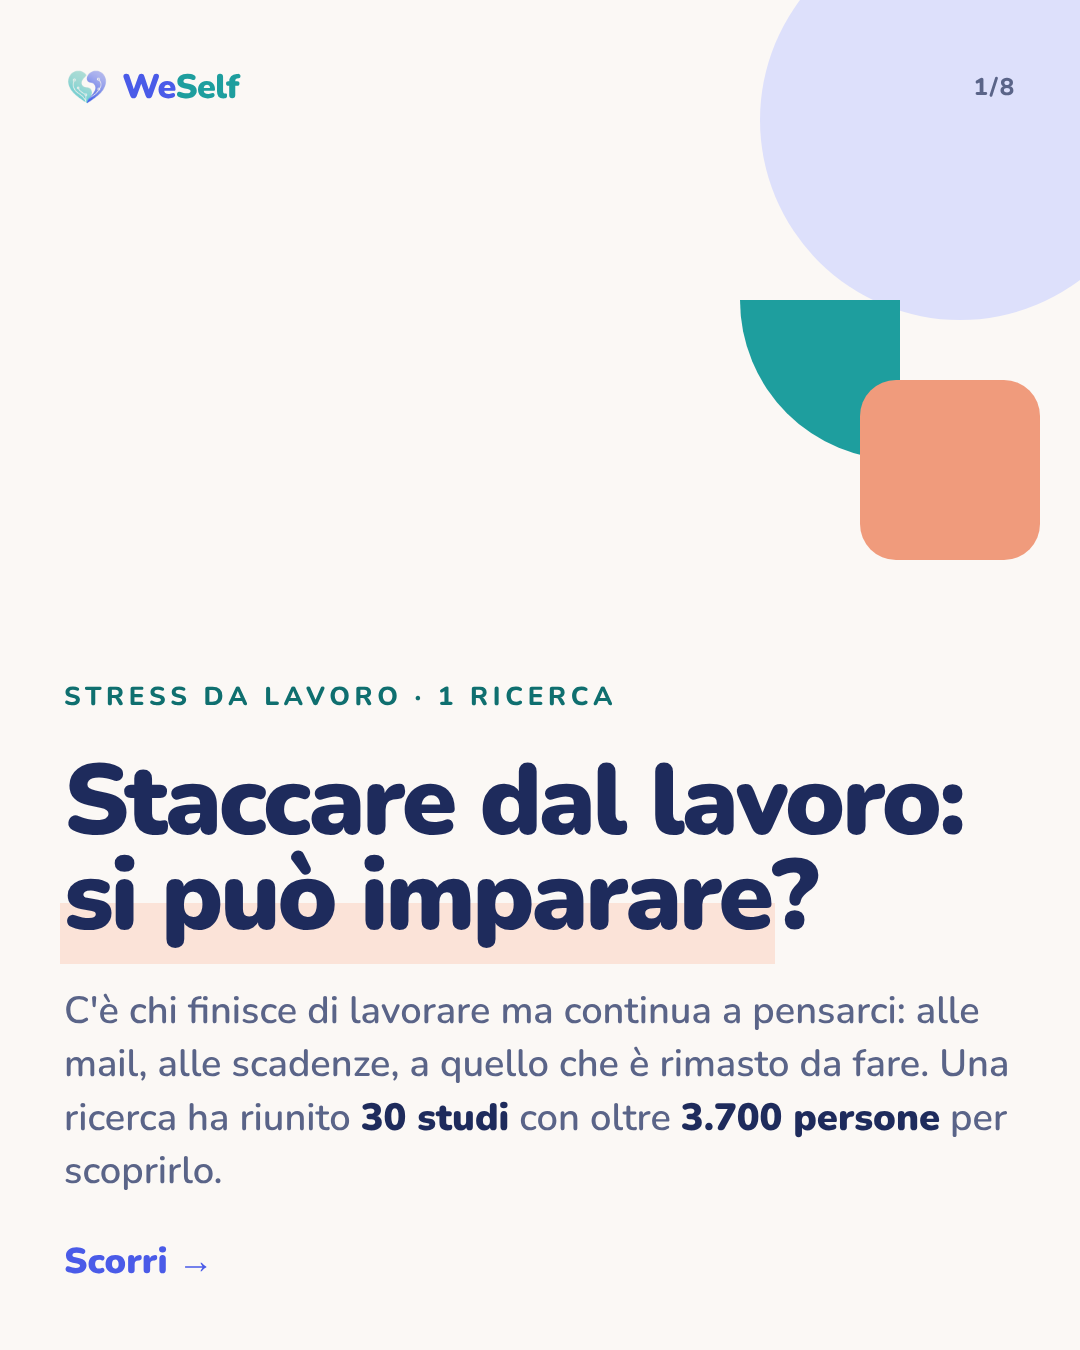
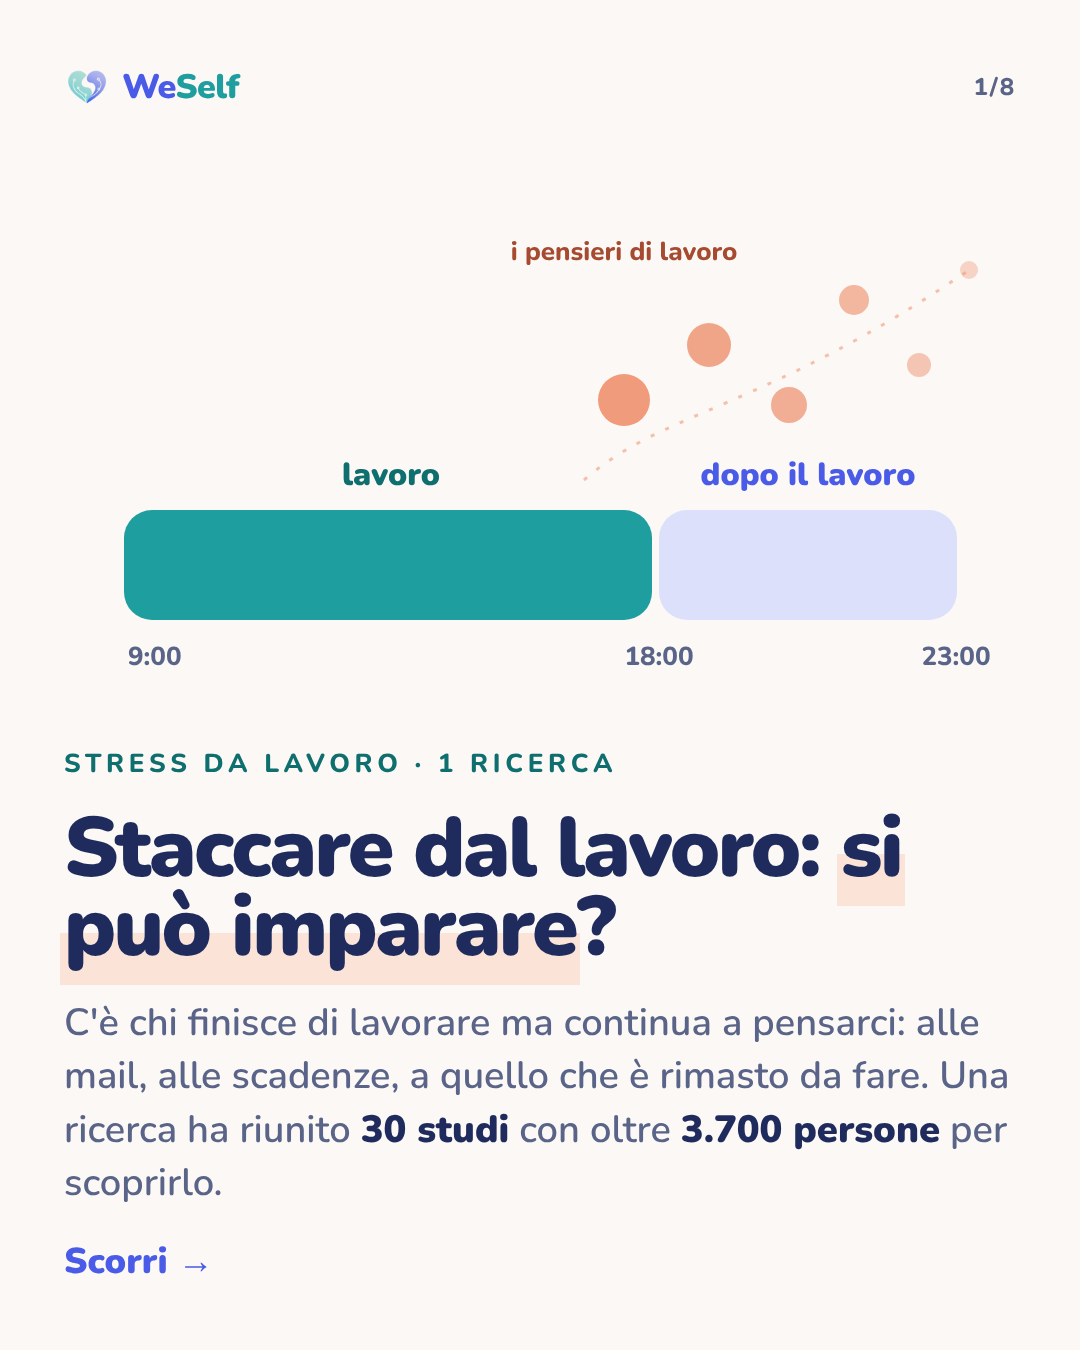
Carosello stress: nuova copertina (la giornata di lavoro), kit aggiornato dopo lo Stress Awareness Day
Claude-Session: https://claude.ai/code/session_01KYQeP73Zvn8PeP6zhkL2Sc

diff --git a/carosselli/stress/slides.html b/carosselli/stress/slides.html
@@ -92,18 +92,31 @@ svg.shape{position:absolute;z-index:1}
 .para div{border-radius:26px;padding:30px 32px;font-weight:700;font-size:34px;line-height:1.3}
 .para .a{background:var(--teal-soft)}.para .b{background:var(--coral-soft)}
 .para small{display:block;font-weight:800;font-size:22px;letter-spacing:.14em;text-transform:uppercase;margin-bottom:10px;color:var(--muted)}
+.day{display:block;margin-top:40px;align-self:flex-start}
 </style>
 
 <section class="slide" id="s1">
-  <svg class="shape" style="right:0;top:0" width="520" height="620" viewBox="0 0 520 620">
-    <circle class="s-tintwe" cx="400" cy="120" r="200"/>
-    <path class="s-self" d="M180 300 h160 v160 a160 160 0 0 1 -160 -160 z"/>
-    <rect class="s-warm" x="300" y="380" width="180" height="180" rx="36"/>
-  </svg>
   <div class="top"><div class="brand"><img src="weself-mark.png"><span><span class="we">We</span><span class="self">Self</span></span></div><div class="count">1/8</div></div>
-  <div style="margin-top:auto" class="stack">
+  <svg class="day" width="952" height="540" viewBox="0 0 952 540">
+    <rect x="60" y="360" width="528" height="110" rx="28" fill="var(--teal)"/>
+    <rect x="595" y="360" width="298" height="110" rx="28" fill="var(--peri-soft)"/>
+    <text x="327" y="335" text-anchor="middle" font-family="Nunito" font-weight="900" font-size="32" fill="var(--teal-text)">lavoro</text>
+    <text x="744" y="335" text-anchor="middle" font-family="Nunito" font-weight="900" font-size="32" fill="var(--peri)">dopo il lavoro</text>
+    <text x="64" y="515" text-anchor="start" font-family="Nunito" font-weight="800" font-size="26" fill="var(--muted)">9:00</text>
+    <text x="595" y="515" text-anchor="middle" font-family="Nunito" font-weight="800" font-size="26" fill="var(--muted)">18:00</text>
+    <text x="892" y="515" text-anchor="middle" font-family="Nunito" font-weight="800" font-size="26" fill="var(--muted)">23:00</text>
+    <path d="M520 330 C 600 260, 700 260, 905 120" fill="none" stroke="var(--coral)" stroke-width="3" stroke-dasharray="4 12" opacity=".6"/>
+    <circle cx="560" cy="250" r="26" fill="var(--coral)" opacity="1"/>
+    <circle cx="645" cy="195" r="22" fill="var(--coral)" opacity="0.9"/>
+    <circle cx="725" cy="255" r="18" fill="var(--coral)" opacity="0.8"/>
+    <circle cx="790" cy="150" r="15" fill="var(--coral)" opacity="0.7"/>
+    <circle cx="855" cy="215" r="12" fill="var(--coral)" opacity="0.55"/>
+    <circle cx="905" cy="120" r="9" fill="var(--coral)" opacity="0.4"/>
+    <text x="560" y="110" text-anchor="middle" font-family="Nunito" font-weight="800" font-size="26" fill="var(--coral-text)">i pensieri di lavoro</text>
+    </svg>
+  <div style="margin-top:auto;gap:28px" class="stack">
     <p class="kicker">Stress da lavoro · 1 ricerca</p>
-    <h1 style="font-size:100px">Staccare dal lavoro: <span class="hl">si può imparare</span>?</h1>
+    <h1 style="font-size:84px">Staccare dal lavoro: <span class="hl">si può imparare</span>?</h1>
     <p class="mid muted">C'è chi finisce di lavorare ma continua a pensarci: alle mail, alle scadenze, a quello che è rimasto da fare. Una ricerca ha riunito <b style="color:var(--ink)">30 studi</b> con oltre <b style="color:var(--ink)">3.700 persone</b> per scoprirlo.</p>
     <p style="font-weight:900;font-size:36px;color:var(--peri)">Scorri →</p>
   </div>

diff --git a/carosselli/stress/body.html b/carosselli/stress/body.html
@@ -17,18 +17,31 @@
 .para div{border-radius:26px;padding:30px 32px;font-weight:700;font-size:34px;line-height:1.3}
 .para .a{background:var(--teal-soft)}.para .b{background:var(--coral-soft)}
 .para small{display:block;font-weight:800;font-size:22px;letter-spacing:.14em;text-transform:uppercase;margin-bottom:10px;color:var(--muted)}
+.day{display:block;margin-top:40px;align-self:flex-start}
 </style>
 
 <section class="slide" id="s1">
-  <svg class="shape" style="right:0;top:0" width="520" height="620" viewBox="0 0 520 620">
-    <circle class="s-tintwe" cx="400" cy="120" r="200"/>
-    <path class="s-self" d="M180 300 h160 v160 a160 160 0 0 1 -160 -160 z"/>
-    <rect class="s-warm" x="300" y="380" width="180" height="180" rx="36"/>
-  </svg>
   <div class="top"><div class="brand"><img src="weself-mark.png"><span><span class="we">We</span><span class="self">Self</span></span></div><div class="count">1/8</div></div>
-  <div style="margin-top:auto" class="stack">
+  <svg class="day" width="952" height="540" viewBox="0 0 952 540">
+    <rect x="60" y="360" width="528" height="110" rx="28" fill="var(--teal)"/>
+    <rect x="595" y="360" width="298" height="110" rx="28" fill="var(--peri-soft)"/>
+    <text x="327" y="335" text-anchor="middle" font-family="Nunito" font-weight="900" font-size="32" fill="var(--teal-text)">lavoro</text>
+    <text x="744" y="335" text-anchor="middle" font-family="Nunito" font-weight="900" font-size="32" fill="var(--peri)">dopo il lavoro</text>
+    <text x="64" y="515" text-anchor="start" font-family="Nunito" font-weight="800" font-size="26" fill="var(--muted)">9:00</text>
+    <text x="595" y="515" text-anchor="middle" font-family="Nunito" font-weight="800" font-size="26" fill="var(--muted)">18:00</text>
+    <text x="892" y="515" text-anchor="middle" font-family="Nunito" font-weight="800" font-size="26" fill="var(--muted)">23:00</text>
+    <path d="M520 330 C 600 260, 700 260, 905 120" fill="none" stroke="var(--coral)" stroke-width="3" stroke-dasharray="4 12" opacity=".6"/>
+    <circle cx="560" cy="250" r="26" fill="var(--coral)" opacity="1"/>
+    <circle cx="645" cy="195" r="22" fill="var(--coral)" opacity="0.9"/>
+    <circle cx="725" cy="255" r="18" fill="var(--coral)" opacity="0.8"/>
+    <circle cx="790" cy="150" r="15" fill="var(--coral)" opacity="0.7"/>
+    <circle cx="855" cy="215" r="12" fill="var(--coral)" opacity="0.55"/>
+    <circle cx="905" cy="120" r="9" fill="var(--coral)" opacity="0.4"/>
+    <text x="560" y="110" text-anchor="middle" font-family="Nunito" font-weight="800" font-size="26" fill="var(--coral-text)">i pensieri di lavoro</text>
+    </svg>
+  <div style="margin-top:auto;gap:28px" class="stack">
     <p class="kicker">Stress da lavoro · 1 ricerca</p>
-    <h1 style="font-size:100px">Staccare dal lavoro: <span class="hl">si può imparare</span>?</h1>
+    <h1 style="font-size:84px">Staccare dal lavoro: <span class="hl">si può imparare</span>?</h1>
     <p class="mid muted">C'è chi finisce di lavorare ma continua a pensarci: alle mail, alle scadenze, a quello che è rimasto da fare. Una ricerca ha riunito <b style="color:var(--ink)">30 studi</b> con oltre <b style="color:var(--ink)">3.700 persone</b> per scoprirlo.</p>
     <p style="font-weight:900;font-size:36px;color:var(--peri)">Scorri →</p>
   </div>

diff --git a/carosselli/stress/kit-pubblicazione-stress.md b/carosselli/stress/kit-pubblicazione-stress.md
@@ -2,7 +2,7 @@
 
 **Immagini:** `weself-stress-01.png` … `weself-stress-08.png` (1080×1350). Su Instagram e Facebook come carosello; su TikTok in modalità foto, con un suono calmo.
 
-**Data:** lo Stress Awareness Day 2026 è **mercoledì 4 novembre** (il primo mercoledì di novembre), dentro la settimana internazionale di consapevolezza sullo stress, dal 2 al 6 novembre. Le slide non hanno date, quindi il carosello va bene anche nei giorni successivi. Se esce dopo il 6, togli dalla didascalia la riga sulla giornata.
+**Data:** lo Stress Awareness Day (4 novembre) è passato, ma le slide non hanno date: il carosello va bene in qualsiasi settimana. Proposta: **lunedì 16 novembre 2026**, l'inizio di una settimana di lavoro.
 
 **Orario consigliato:** tra le 18:00 e le 20:00, quando molte persone escono dal lavoro: è proprio il momento in cui si fatica a staccare.
 
@@ -11,7 +11,7 @@
 ```
 Staccare dal lavoro: si può imparare?
 
-Questa settimana è dedicata alla consapevolezza sullo stress. E c'è un'esperienza che accomuna moltissime persone: finire di lavorare e continuare a pensarci, alle mail, alle scadenze, a quello che è rimasto da fare.
+C'è un'esperienza che accomuna moltissime persone: finire di lavorare e continuare a pensarci, alle mail, alle scadenze, a quello che è rimasto da fare.
 
 Una meta-analisi pubblicata nel 2021 ha riunito 30 studi, con 34 interventi diversi e 3.725 partecipanti, per capire se il «distacco psicologico» dal lavoro si può migliorare. Gli autori partono da un paradosso: staccare è fondamentale per la salute, ma diventa più difficile proprio quando lo stress è alto e ci sarebbe più bisogno di recuperare.
 
@@ -40,7 +40,7 @@ Come abbiamo tradotto i numeri: l'effetto medio riportato (d = 0,36) è stato co
 
 ## Testo alternativo (una riga per immagine)
 
-1. Copertina WeSelf: «Staccare dal lavoro: si può imparare? C'è chi finisce di lavorare ma continua a pensarci: alle mail, alle scadenze, a quello che è rimasto da fare. Una ricerca ha riunito 30 studi con oltre 3.700 persone per scoprirlo.»
+1. Copertina WeSelf: una barra della giornata, con il lavoro dalle 9 alle 18 in verde e il tempo dopo il lavoro, fino alle 23, in azzurro; alcuni cerchi arancioni, «i pensieri di lavoro», escono dalla parte del lavoro e finiscono nella sera. Testo: «Staccare dal lavoro: si può imparare? C'è chi finisce di lavorare ma continua a pensarci: alle mail, alle scadenze, a quello che è rimasto da fare. Una ricerca ha riunito 30 studi con oltre 3.700 persone per scoprirlo.»
 2. La ricerca: 30 studi, con 34 interventi diversi e 3.725 partecipanti. È una meta-analisi pubblicata nel 2021, che ha riunito anche studi mai pubblicati, sul distacco psicologico: la capacità di non pensare al lavoro quando non si lavora.
 3. Perché conta: staccare nel tempo libero è fondamentale per la salute e il benessere. Ma c'è un paradosso: quando lo stress è alto e ci sarebbe più bisogno di recuperare, staccare diventa più difficile.
 4. I numeri, tradotti: in media, la persona che aveva seguito un intervento riusciva a staccare meglio del 64% di chi non l'aveva seguito. È un effetto piccolo-medio, emerso nell'insieme degli studi.
